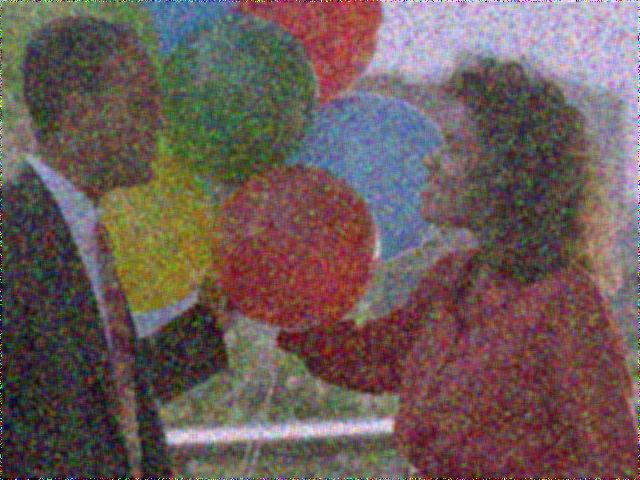
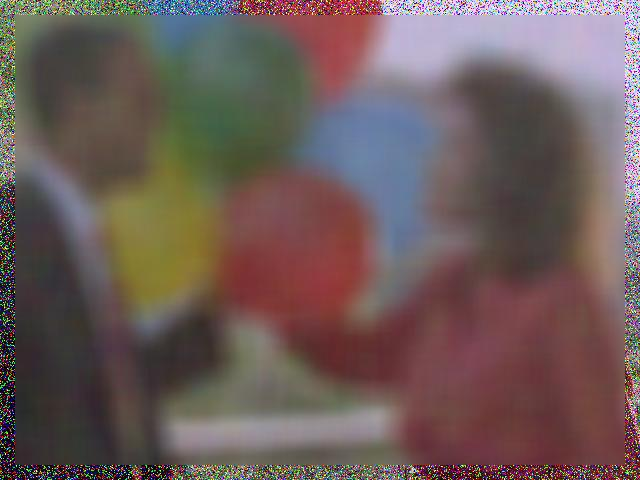
added new parallel mean filter

diff --git a/Assignment_PCP1/MeanFilterParallel.java b/Assignment_PCP1/MeanFilterParallel.java
@@ -5,60 +5,67 @@
 //Date:             12 August 2022
 
 import java.io.File;
-import java.util.Arrays;
 import java.io.IOException;
 import java.awt.image.BufferedImage;
 import javax.imageio.ImageIO;
 import java.util.concurrent.ForkJoinPool;
-import java.util.concurrent.ForkJoinTask;
-import java.util.concurrent.RecursiveTask;
 
 public class MeanFilterParallel {
+    //initialise timing variables
+    static long startTime = 0;
+	static long runTime = 0;
+
+    //start timer
+	private static void tic(){
+		startTime = System.currentTimeMillis();
+	}
+
+    //end timer and calculate runtime
+	private static void toc(){
+		runTime = (System.currentTimeMillis() - startTime) ; 
+	}
+
     static final ForkJoinPool fjPool = new ForkJoinPool();
 
-    static sum(int[][] arr){
-        return fjPool.invoke(new medianArray(arr,0,arr.length));
+    static int[] sum(int[] pixels){
+        return fjPool.invoke(new RGBSum(pixels, 0, pixels.length));
     }
-
-    //mean_filter() implements the mean filter in parallel 
-    static void mean_filter(BufferedImage img, int img_height, int img_width, int window_width){
-        //initiallise the pixel and RGB values
-        int p, r = 0, b = 0, g = 0;
-        //initialise a two-dimensional array to store pixel values in window
-        int[][] window_pixels = new int[window_width*window_width][3];
-        //initialise count to control the indeces of the square window array
+	
+	static int[] mean_filter(BufferedImage img, int window_width, int border_width, int img_height, int img_width){
+        //initialise an array to store pixel values in window
+        int[] window_pixels = new int[window_width*window_width];
         int count = 0;
 
-        //set the border width
-        int border_width = (int)Math.floor(window_width/2);
+        //initialise an array to store new pixel values
+        int[] new_pixels = new int[(img_height - border_width)*(img_width - border_width)];
 
-        //implementation of the parallel mean filter
+        tic(); //start timer
+
         for (int i = border_width; i < (img_height - border_width); i++){
             for (int j = border_width; j < (img_width - border_width); j++){
                 for (int h = 0; h < window_width; h++){
                     for (int w = 0; w < window_width; w++){
                         //get the pixel value
-                        p = img.getRGB(w + j - border_width, h + i - border_width);
-        
-                        //extract the RGB values from thei pixel value
-                        r = (p>>16) & 0xff;
-                        g = (p>>8) & 0xff;
-                        b = p & 0xff;
-        
-                        //populate the square window array with RGB values
-                        window_pixels[count][0] = r;
-                        window_pixels[count][1] = g;
-                        window_pixels[count][2] = b;
-                        count += 1;
+                        int p = img.getRGB(w + j - border_width, h + i - border_width);
+                        window_pixels[w + h*window_width] = p;
                     }//window width loop ends here
                 }//window height loop ends here
 
-                //calculate the median using fork-join
-                int[] median_values = median(window_pixels);
-        
-            }//image width loop ends here
-        }//image height loop ends here
-    }
+                int[] sum = sum(window_pixels);
+
+                //populate new array with new pixel values
+                int new_p = (sum[0]<<16) | (sum[1]<<8) | sum[2];
+                new_pixels[count] = new_p;
+                count += 1;
+            }
+        }
+
+        toc(); //end time and calculate runtime
+        System.out.println("Runtime for mean filter with window of size " + Integer.toString(window_width) + "x" + Integer.toString(window_width) 
+        + ": " + runTime/1000.0f + " seconds");
+
+        return new_pixels;
+	}
     
     public static void main(String args[])throws IOException{
         //initialise file and image variables
@@ -79,14 +86,11 @@ public class MeanFilterParallel {
           System.out.println(e);
         }
 
-        //get number of threads from system
-        //int noThreads = Runtime.getRuntime().availableProcessors();
-
         //determinine the width and height of image
         int img_width = img.getWidth();
         int img_height = img.getHeight();
 
-        //initialise the window width
+        //initialise window width
         int window_width = 0;
 
         //set the window width and check if command-line input is an odd number
@@ -98,15 +102,20 @@ public class MeanFilterParallel {
             window_width = Integer.parseInt(args[1]);
         }
 
-        //execute the mean filter function
-        mean_filter(img, img_height, img_width, window_width);
-        
-        //write the new pixel values to the desired output file
-        try{
-            f = new File(args[2]);
-            ImageIO.write(img, "jpg", f);
-        }catch(IOException e){
-            System.out.println(e);
-        }
+        //set the border width
+        int border_width = (int)Math.floor(window_width/2);
+
+        //invoke the mean_filter() method and initialise an array for the new pixel values
+        int[] new_pixels = new int[(img_height - border_width)*(img_width - border_width)];
+        new_pixels = mean_filter(img, window_width, border_width, img_height, img_width);
+
+        int count = 0;
+        //set the pixel value to the mean of the RGB values
+        for (int i = border_width; i < (img_height - border_width); i++){
+            for (int j = border_width; j < (img_width - border_width); j++){
+                img.setRGB(j, i, new_pixels[count]);
+                count += 1;
+            } //image width loop ends here
+        }//image height loop ends here
     }
 }

diff --git a/Assignment_PCP1/RGBSum.java b/Assignment_PCP1/RGBSum.java
@@ -1,0 +1,40 @@
+//Assignment_PCP1:  A recursive object used to calculate the sum.
+//Course Code:      CSC2002S
+//Author:   	    Bradley Carthew 
+//Student Number:   CRTBRA002 
+//Date:             12 August 2022
+
+import java.util.concurrent.RecursiveTask;
+
+public class RGBSum extends RecursiveTask<int[]> {
+	int lo; // arguments
+	int hi;
+	int[] arr;
+	static final int SEQUENTIAL_CUTOFF=10000000;
+	int[] ans = new int[3]; // result 
+	    
+	RGBSum(int[] a, int l, int h) { 
+	    lo=l; hi=h; arr=a;
+	}
+
+	protected int[] compute(){// return answer - instead of run
+	    if((hi-lo) < SEQUENTIAL_CUTOFF) {
+			int[] ans = new int[3];
+		    for(int i=lo; i < hi; i++){
+		        ans[0] += (arr[i]>>16) & 0xff;
+				ans[1] += (arr[i]>>8) & 0xff;
+				ans[2] += arr[i] & 0xff;
+			}
+		    return ans;
+		}
+		else{
+		    RGBSum left = new RGBSum(arr,lo,(hi+lo)/2);
+		    RGBSum right= new RGBSum(arr,(hi+lo)/2,hi);
+		    left.fork(); //this
+		    int[] rightAns = right.compute(); //order
+		    int[] leftAns  = left.join();   //is very
+			int[] result = {leftAns[0] + rightAns[0], leftAns[0] + rightAns[0], leftAns[0] + rightAns[0]};
+		    return result;      //important.
+		}
+	}
+}

diff --git a/Assignment_PCP1/MeanFilterSerial.java b/Assignment_PCP1/MeanFilterSerial.java
@@ -124,21 +124,17 @@ public class MeanFilterSerial {
         int img_width = img.getWidth();
         int img_height = img.getHeight();
 
-        //initialise the window width
-        int window_width = 0;
-
         //set the window width and check if command-line input is an odd number
         if (Integer.parseInt(args[1]) % 2 == 0){
             System.out.println("Error: The window size must be an odd integer value.");
             System.exit(0);
         }
         else{
-            window_width = Integer.parseInt(args[1]);
-        }
-        
+            int window_width = Integer.parseInt(args[1]);
 
-        //execute the mean filter function
-        mean_filter(img, img_height, img_width, window_width);
+            //execute the mean filter function
+            mean_filter(img, img_height, img_width, window_width);
+        }
         
         //write the new pixel values to the desired output file
         try{
